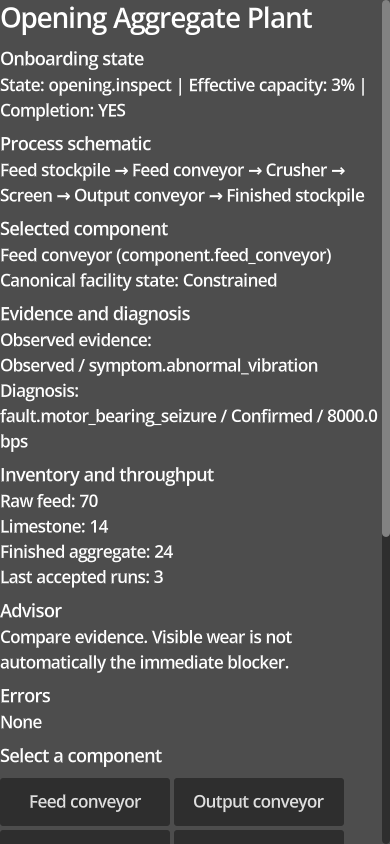
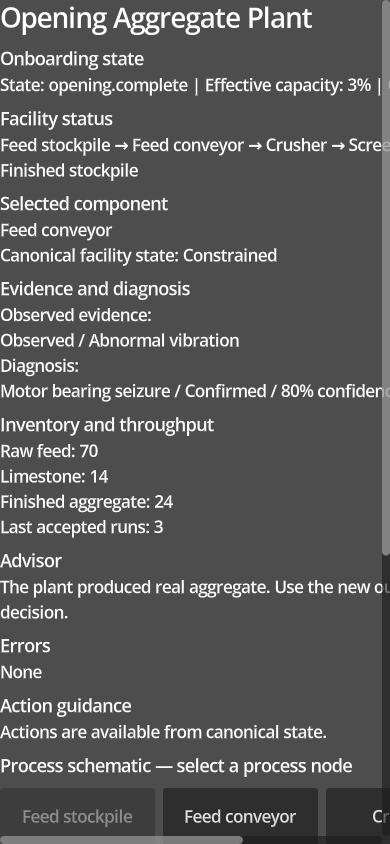
Add WP-011 R3 presentation handback

Changed region(s): [[0.0, 0.0924, 1.0, 1.0], [0.7077, 0.6161, 1.0, 0.7085]]

diff --git a/docs/engineering/handbacks/wp-011/WP011_R3_HANDBACK.md b/docs/engineering/handbacks/wp-011/WP011_R3_HANDBACK.md
@@ -1,0 +1,66 @@
+ENGINEERING HANDBACK
+
+Work package: WP-011 R3
+Technical Authority directive: `docs/engineering/directives/WP-011_R3_PRESENTATION_STATE_RESPONSIVE_UI_REMEDIATION.md`
+Directive commit: `561f2b859859acd30f31ecfb6b4d2984021a291c`
+Execution agent: Devin
+Worker model: GPT-5.6 Luna
+Worker effort: XHigh
+Implementation class: D2 — bounded complex
+
+Repository / branch: `xOMAIKOx/gridworkx` / `engineering/wp-011-opening-aggregate-slice`
+Controlling original parent: `ca5b4f06cdba226176296dd1ee7d294ef6c7927a`
+R3 starting HEAD: `1ab5dcd94e48e27c841b106eaaf77518cc262525`
+Implementation commits: `1d04494`, `b7b88da`, `40d945f`, `7497c33`
+Final HEAD: exact handback commit SHA is recorded by the canonical issue #24 and PR #25 receipts for this document.
+
+## R3 closure
+
+- Presentation state now prioritizes canonical completion, production capacity, diagnosis and evidence coherently:
+  `opening.intro` → `opening.inspect` → `opening.diagnose` → `opening.intervene` → `opening.produce` → `opening.complete`.
+- The wide layout expands to the available viewport; the process schematic is a real selectable FlowContainer of six process nodes rather than a text-only arrow.
+- Canonical component/evidence/diagnosis identifiers and basis-point confidence values are mapped to player-facing labels.
+- Disabled diagnosis, intervention and production controls expose explicit reasons through tooltips and an action-guidance panel.
+- Visual capture follows the real controller path and asserts all five PNGs.
+- Existing Rust scenario, deterministic goldens, bridge and version pins are unchanged.
+
+## Evidence
+
+Committed real Godot/Xvfb PNGs:
+
+- `docs/evidence/wp-011/opening-portrait-390x844.png` — 390×844.
+- `docs/evidence/wp-011/opening-wide-1440x900.png` — 1440×900.
+- `docs/evidence/wp-011/inspected-feed-390x844.png` — 390×844.
+- `docs/evidence/wp-011/partial-recovery-390x844.png` — 390×844, `opening.produce`, capacity 3.
+- `docs/evidence/wp-011/first-output-390x844.png` — 390×844, `opening.complete`, accepted runs 3, finished aggregate 24.
+
+The controller-level Godot test asserts the guided state sequence, four component inspections, diagnosis choice, wrong-belt-first recovery, critical repair, production event, completion predicate, restart digest and malformed-response preservation.
+
+## Verification
+
+Implementation-head CI was green:
+
+- Push: https://github.com/xOMAIKOx/gridworkx/actions/runs/35914378888
+- PR: https://github.com/xOMAIKOx/gridworkx/actions/runs/35914384822
+
+The final handback commit reruns the same full repository, security, WP-010 and WP-011 gates. Final links are recorded in the canonical GitHub receipts.
+
+## Acceptance mapping
+
+- AC-R3-01 through AC-R3-07: PASS — coherent guided progression, diagnosis/intervention gating, wrong-choice recovery, capacity 3, production and completion.
+- AC-R3-08 through AC-R3-10: PASS — wide viewport use, portrait usability and selectable process schematic.
+- AC-R3-11 through AC-R3-13: PASS — readable player labels, explicit disabled-action reasons and dismissible advisor.
+- AC-R3-14 through AC-R3-18: PASS — guided capture path, partial/complete visual states and all five dimension-checked PNGs.
+- AC-R3-19: PASS — accepted Rust, bridge, WP-010 and WP-011 gates remain green.
+- AC-R3-20: PASS — no later-WP, host, deployment, provider, DB, port or container scope.
+- AC-R3-21: PASS — this durable handback is committed.
+
+Deviations from directive: NONE.
+
+Open blockers/risks: NONE within R3.
+
+Worker-routing deviations: NONE.
+
+Unauthorized environment/production mutations: NONE.
+
+Final state: READY FOR SOL/PRO REVIEW

diff --git a/docs/evidence/WP-011_OPENING_AGGREGATE_VERTICAL_SLICE.md b/docs/evidence/WP-011_OPENING_AGGREGATE_VERTICAL_SLICE.md
@@ -68,7 +68,14 @@ Committed expected values in the WP-011 fixture:
 
 Restart creates a fresh canonical scenario and restores the initial digest; it does not rewind a used snapshot. Bridge unavailable/error states are explicit and non-authoritative; no mock/fake simulation fallback exists.
 
-## R2 onboarding contract evidence
+## R3 presentation-state and responsive evidence
+
+- Guided state sequence is derived from canonical state: `opening.intro` → `opening.inspect` → `opening.diagnose` → `opening.intervene` → `opening.produce` → `opening.complete`.
+- The real process schematic uses selectable component cards for feed conveyor, crusher, screen and output conveyor; stockpile nodes remain visible storage nodes.
+- Player-facing labels map canonical IDs, symptoms and confidence basis points to readable labels; canonical IDs remain internal.
+- Disabled diagnosis, repair and production controls expose their reasons in tooltips and the action-guidance panel.
+- The Xvfb capture follows the same controller action sequence used by the headless contract test.
+
 
 - Presentation states: `opening.intro`, `opening.inspect`, `opening.diagnose`, `opening.intervene`, `opening.produce`, `opening.complete`.
 - Diagnosis candidates: motor bearing seizure, worn belt and screen blockage; selection issues canonical `FailureCommand::Diagnose`.
